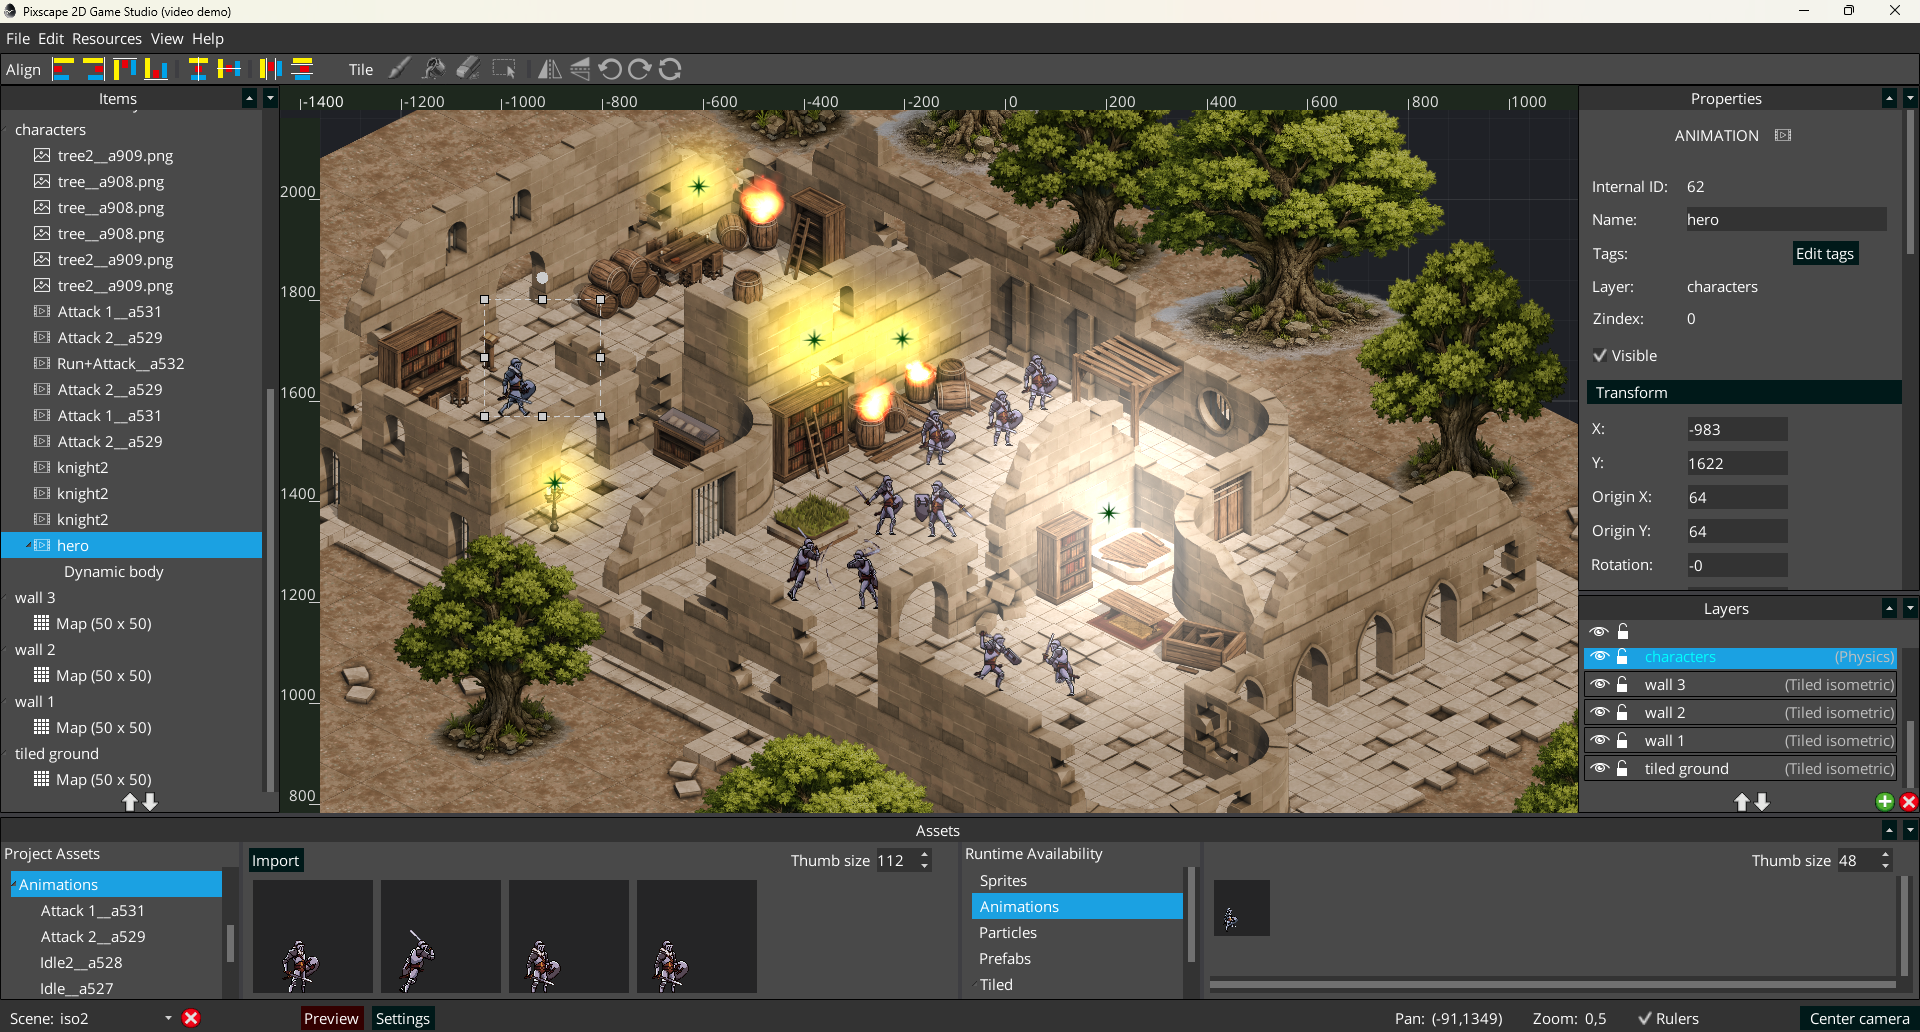
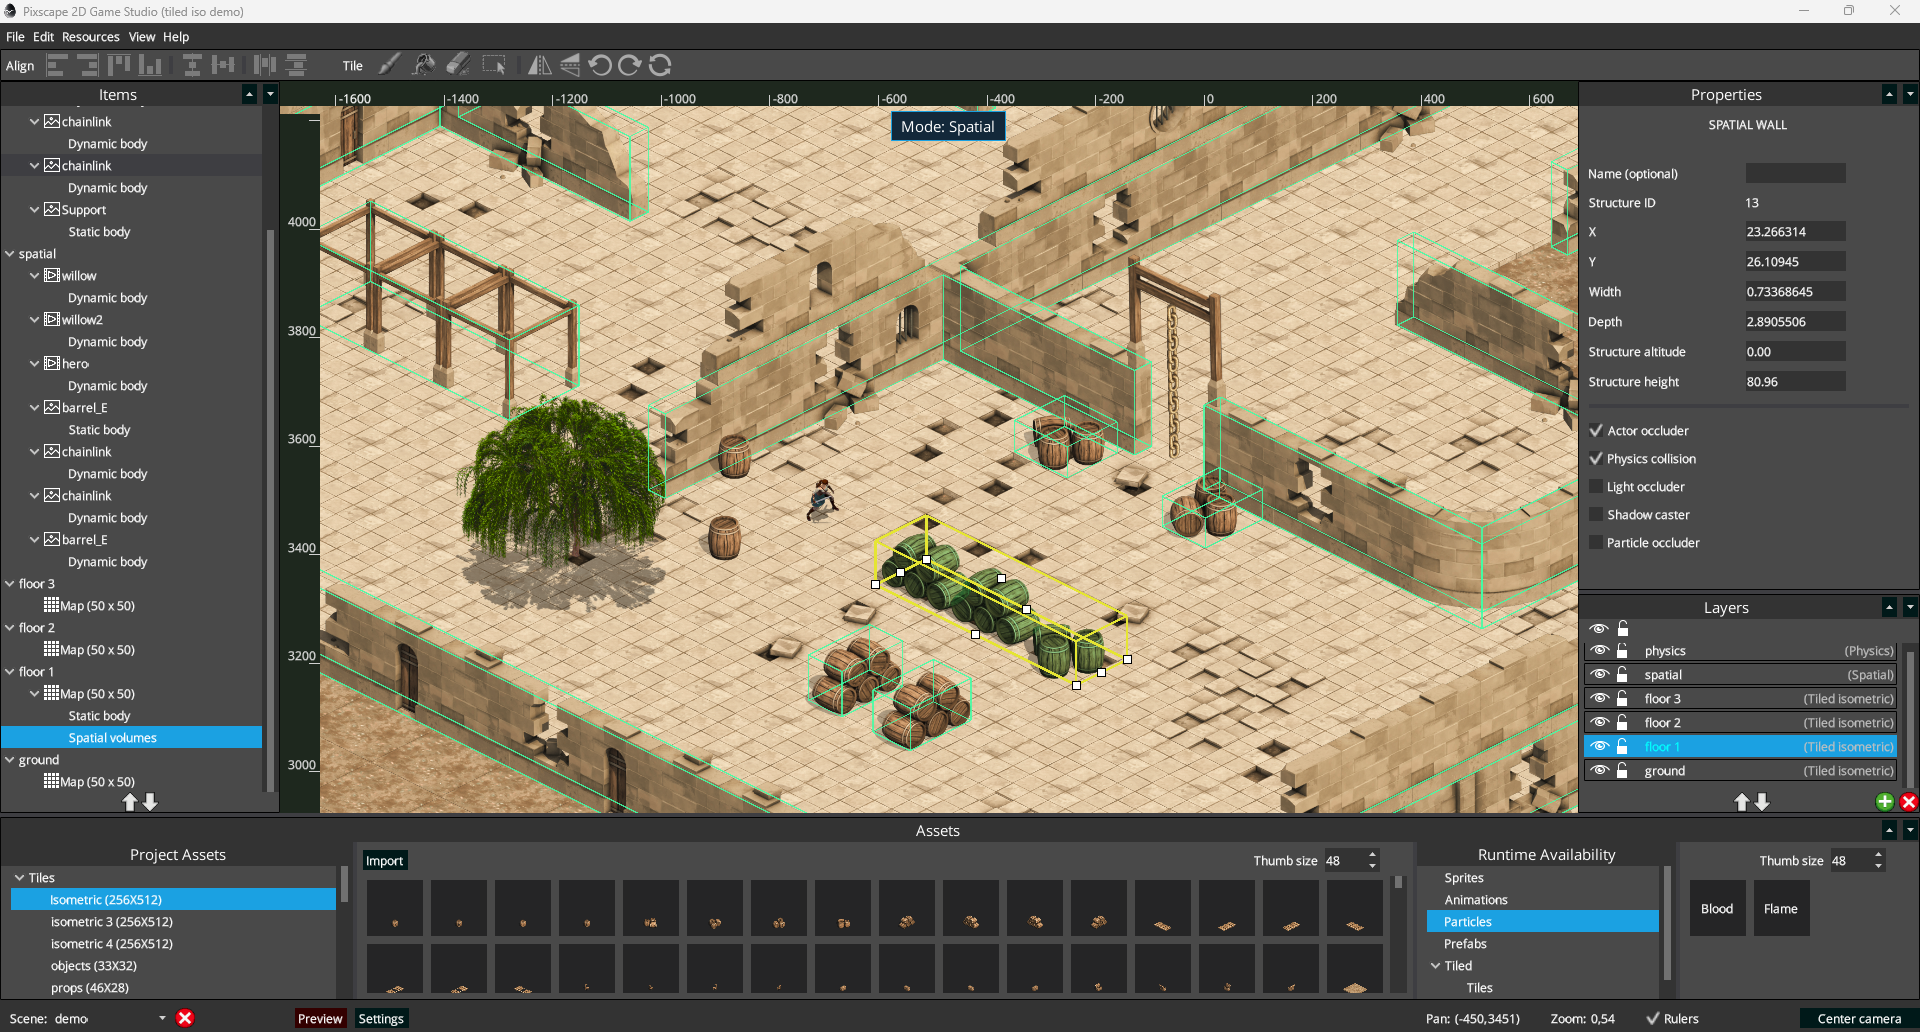
update CHANGELOG.md and pixscape-studio-free.png

diff --git a/CHANGELOG.md b/CHANGELOG.md
@@ -18,6 +18,7 @@
 * Added a dedicated Spatial actor layer with automatic physics body and footprint setup.
 * Added visible progress feedback during Tiled map imports.
 * Tiled editing mode now displays the logical grid coordinates under the cursor directly in the canvas mode indicator.
+* Added multi-animation entities, allowing multiple Animation assets to be attached and the active animation to be switched from the Properties panel.
 
 ### Changed
 
@@ -33,6 +34,7 @@
 * Refreshed the Studio interface with a more compact and consistent layout, clearer panel hierarchy, harmonized dialogs and unified icon-based list controls.
 * Desktop and HTML Preview now use render-driven progressive scene loading with a simple progress bar and enter normal preview state only after Runtime READY.
 * HTML bootstrap now defers scene files, atlases and pages, particle effects, prefab fragments and other selected-scene resources to Runtime availability loading.
+* Animation asset clip and FPS metadata is now authoritative and stays synchronized across entity switching, editing, undo/redo and scene reloads.
 
 ### Improved
 
@@ -69,6 +71,8 @@
 * Fixed copied and pasted entities retaining the source layer instead of adapting to the destination layer.
 * Fixed Runtime Availability particle preparation after Studio atlas publication so authored and declared effects are rebuilt against the canonical scene atlas, including renamed scenes.
 * Particle effect replacement is failure-atomic and keeps the previous valid effect when replacement fails.
+* Fixed prefab atlas dependency collection for multi-animation entities and animation metadata propagation after asset edits.
+* Fixed HTML Preview/player prefab spawning with the updated Runtime GWT prefab reflection support.
 
 ### Tests
 
